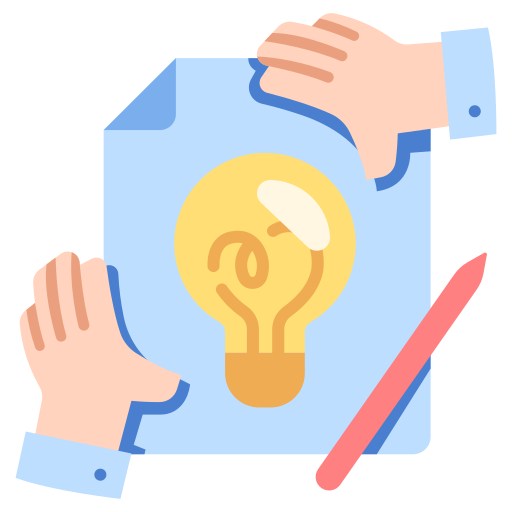
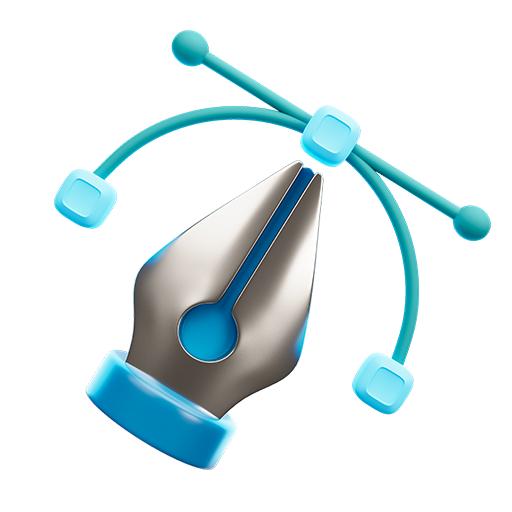
New Edits with New Nav

diff --git a/components/contact/Contact.jsx b/components/contact/Contact.jsx
@@ -5,15 +5,34 @@ function Contact() {
     <section className="contact section-padding">
       <div className="container">
         <div className="row">
-          <div className="col-lg-4 valign">
+          <div className="col-lg-12 valign">
             <div className="sec-head info-box full-width md-mb80">
-              <div className="phone fz-30 fw-600 underline main-color">
+              <h6 className="mb-15"></h6>
+              <div className="phone fz-30 fw-600 underline">
+              
                 
-                <a href="tel:[phone redacted]">[phone redacted]</a>
+                <a href="https://calendar.app.google/TUJ311uihLjpkZnF9" target='_blank'>CLICK TO BOOK A MEETING</a>
+              </div>
+              
+
+              
+            </div>
+          </div>
+          
+        </div>
+        
+        <div className="row">
+          <div className="col-lg-12 valign">
+            <div className="sec-head info-box full-width md-mb80">
+              <h6 className="mb-15">Number | WhatsApp</h6>
+              <div className="phone fz-30 fw-600 underline main-color">
+              
+                
+                <a href="tel:[phone redacted]" target='_blank'>[phone redacted]</a>, <a href="https://wa.me/message/IDWHG6YPE42MC1" target='_blank'>[phone redacted]</a>
               </div>
               <div className="morinfo mt-50 pb-30 bord-thin-bottom">
                 <h6 className="mb-15">Address</h6>
-                <p>6 Swomen Close, Rayfield, Jos, Nigeria</p>
+                <p>8 Swomen Close, Rayfield, Jos, Nigeria</p>
               </div>
               <div className="morinfo mt-30 pb-30 bord-thin-bottom">
                 <h6 className="mb-15">Email</h6>
@@ -27,7 +46,7 @@ function Contact() {
                 <a href="https://twitter.com/mustardhq" target="_blank">
                   <i className="fab fa-twitter"></i>
                 </a>
-                <a href="https://linkedin.com/company/mustardhq" target="_blank">
+                <a href="https://linkedin.com/company/mustardinnovations" target="_blank">
                   <i className="fab fa-linkedin"></i>
                 </a>
                 <a href="https://instagram.com/mustard.hq" target="_blank">
@@ -36,81 +55,7 @@ function Contact() {
               </div>
             </div>
           </div>
-          <div className="col-lg-7 offset-lg-1 valign">
-            <div className="full-width">
-              <div className="sec-head mb-50">
-                <h6 className="sub-title main-color mb-15">Let&lsquo;s Chat</h6>
-                <h3 className="text-u ls1">
-                  Send a <span className="fw-200">message</span>
-                </h3>
-              </div>
-              <form
-                id="contact-form"
-                className="form2"
-                method="post"
-                action=" "
-              >
-                <div className="messages"></div>
-
-                <div className="controls row">
-                  <div className="col-lg-6">
-                    <div className="form-group mb-30">
-                      <input
-                        id="form_name"
-                        type="text"
-                        name="name"
-                        placeholder="Name"
-                        required="required"
-                      />
-                    </div>
-                  </div>
-
-                  <div className="col-lg-6">
-                    <div className="form-group mb-30">
-                      <input
-                        id="form_email"
-                        type="email"
-                        name="email"
-                        placeholder="Email"
-                        required="required"
-                      />
-                    </div>
-                  </div>
-
-                  <div className="col-12">
-                    <div className="form-group mb-30">
-                      <input
-                        id="form_subject"
-                        type="text"
-                        name="subject"
-                        placeholder="Subject"
-                      />
-                    </div>
-                  </div>
-
-                  <div className="col-12">
-                    <div className="form-group">
-                      <textarea
-                        id="form_message"
-                        name="message"
-                        placeholder="Message"
-                        rows="4"
-                        required="required"
-                      ></textarea>
-                    </div>
-                    <div className="mt-30">
-                      <button
-                        type="submit"
-                        className="butn butn-full butn-bord radius-30"
-                      >
-                        <span className="text">Let&lsquo;s Talk</span>
-                      </button>
-                    </div>
-                  </div>
-                </div>
-              </form>
-            </div>
-          </div>
+          
         </div>
       </div>
     </section>

diff --git a/components/p-gallery/Portfolio.jsx b/components/p-gallery/Portfolio.jsx
@@ -96,6 +96,45 @@ function Portfolio() {
               </div>
             </div>
           </div>
+          {/* FOLA PR LIMITED */}
+          <div className="col-lg-8 offset-lg-2">
+            <div className="item mb-80 mt-40">
+              <div className="img">
+                <img src="/assets/imgs/works/mustardworks/fola|mustardhq.webp" alt="Fola PR Limited" />
+              </div>
+              <div className="cont d-flex align-items-end mt-30">
+                <div>
+                  <span className="p-color mb-5 sub-title">Web Design</span>
+                  <h6>Fola PR Limited</h6>
+                </div>
+                <div className="ml-auto">
+                  <a href="https://wewantfola.com" target="_blank">
+                    <span className="ti-arrow-top-right"></span>
+                  </a>
+                </div>
+              </div>
+            </div>
+          </div>
+          {/* Aisha Sulaiman */}
+          {/* <div className="col-lg-5 offset-lg-2">
+            <div className="item mb-80 mt-40">
+              <div className="img">
+                <img src="/assets/imgs/works/mustardworks/aisha|mustardhq.webp" alt="Aisha Sulaiman Achimugu" />
+              </div>
+              <div className="cont d-flex align-items-end mt-30">
+                <div>
+                  <span className="p-color mb-5 sub-title">Web Development</span>
+                  <h6>Aisha Sulaiman Achimugu</h6>
+                </div>
+                <div className="ml-auto">
+                  <a href="#" target="_blank">
+                    <span className="ti-arrow-top-right"></span>
+                  </a>
+                </div>
+              </div>
+            </div>
+          </div> */}
+
           {/* <div className="col-lg-8 offset-lg-2">
             <div className="item mt-40">
               <div className="img">

diff --git a/components/common/Navbar.jsx b/components/common/Navbar.jsx
@@ -85,26 +85,27 @@ function Navbar() {
               <div className="dropdown-menu mega-menu">
                 <div className="container">
                   <div className="row">
-                    <div className="col-lg">
+                    {/* <div className="col-lg">
                       <a className="item-img text-center" href="/">
                         <span className="img">
                           <img src="/assets/imgs/brands/mustardhq-for-home.webp" alt="" />
                         </span>
                         <span className="mt-15">Home</span>
                       </a>
-                    </div>
+                    </div> */}
                     <div className="col-lg">
                       <a
                         className="item-img text-center"
-                        href="#"
+                        href="https://www.labarintech.com"
+                        target='_blank'
                       >
                         <span className="img">
-                          <img src="/assets/imgs/brands/mustardhq-for-comingsoon.webp" alt="" />
+                          <img src="/assets/imgs/brands/labarintech-mustardhq.webp" alt="LabarinTech.com" />
                         </span>
                         <span className="mt-15">LabarinTech</span>
                       </a>
                     </div>
-                    <div className="col-lg">
+                    {/* <div className="col-lg">
                       <a
                         className="item-img text-center"
                         href="#"
@@ -114,7 +115,7 @@ function Navbar() {
                         </span>
                         <span className="mt-15">Spiritual Gift</span>
                       </a>
-                    </div>
+                    </div> */}
                     <div className="col-lg">
                       <a
                         className="item-img text-center"
@@ -211,6 +212,12 @@ function Navbar() {
               </a>
             </li>
 
+            <li className="nav-item">
+              <a className="nav-link" href="/contact">
+                <span className="rolling-text">Contact</span>
+              </a>
+            </li>
+
 
             {/* <li
               onMouseLeave={handleDropdownMouseLeave}
@@ -294,8 +301,9 @@ function Navbar() {
 
         <div className="contact-button">
           <a
-            href="/contact"
+            href="https://calendar.app.google/TUJ311uihLjpkZnF9"
             className="butn butn-sm butn-bg main-colorbg radius-5"
+            target='_blank'
           >
             <span className="text">Get Quote</span>
           </a>

diff --git a/components/home/Header.jsx b/components/home/Header.jsx
@@ -32,17 +32,13 @@ function Header() {
               <div className="d-flex align-items-end">
                 <div>
                   <h1 className="nowrap">
-                    <span className="main-color">great</span> product.
+                    <span className="main-color">great</span> products.
                   </h1>
                 </div>
                 <div>
                   <div className="text ml-30">
                     <p>
-                    Mustard is the leading software development and training institute, renowned for its innovative solutions and commitment to excellence. With a focus on empowering businesses and individuals, we blend {' '}
-                      <span className="text-light fw-600">
-                      cutting-edge technology with top-tier training
-                      </span>{' '}
-                      to drive success in the ever-evolving tech landscape.
+                    Mustard is the leading software development and training institute, renowned for its innovative solutions and commitment to excellence.
                     </p>
                   </div>
                 </div>

diff --git a/components/common/Footer.jsx b/components/common/Footer.jsx
@@ -15,7 +15,7 @@ function Footer() {
             <div className="column md-mb50">
               <h6 className="sub-title mb-30">Contact</h6>
               <h6 className="p-color fw-400">
-                6 Swomen Close, Rayfield <br /> Jos, Nigeria
+                8 Swomen Close, Rayfield <br /> Jos, Nigeria
               </h6>
               <h6 className="mt-30 mb-15">
                 <a href="mailto:[email redacted]">[email redacted]</a>
@@ -38,8 +38,11 @@ function Footer() {
                 <li className="mb-15">
                   <a href="https://labarintech.com" target="_blank">Blog</a>
                 </li>
-                <li>
+                <li className="mb-15">
                   <a href="/contact">Contact</a>
+                </li>
+                <li className="mb-15">
+                  <a href="https://calendar.app.google/TUJ311uihLjpkZnF9">Get Quote</a>
                 </li>
               </ul>
             </div>

diff --git a/components/about/Intro.jsx b/components/about/Intro.jsx
@@ -32,9 +32,9 @@ function Intro() {
               <p>
               Our commitment is to the seamless integration of innovative thinking and meticulous execution, ensuring every solution we deliver embodies both excellence and delivers tangible outcomes.
               </p>
-              <a href="/contact" className="underline main-color mt-40">
+              <a href="https://calendar.app.google/TUJ311uihLjpkZnF9" className="underline main-color mt-40" target='_blank'>
                 <span className="text">
-                  Explore More <i className="ti-arrow-top-right"></i>
+                  Hear From Us <i className="ti-arrow-top-right"></i>
                 </span>
               </a>
             </div>

diff --git a/components/about/Numbers.jsx b/components/about/Numbers.jsx
@@ -8,7 +8,7 @@ function Numbers() {
           <div className="col-lg-4 col-md-6">
             <div className="item text-center md-mb50">
               <div className="o-hidden">
-                <h3 className="stroke">100%</h3>
+                <h3 className="stroke">97%</h3>
               </div>
               <h6 className="p-color sub-title">Clients Satisfaction</h6>
             </div>
@@ -16,7 +16,7 @@ function Numbers() {
           <div className="col-lg-4 col-md-6">
             <div className="item text-center md-mb50">
               <div className="o-hidden">
-                <h3 className="stroke">57</h3>
+                <h3 className="stroke">137</h3>
               </div>
               <h6 className="p-color sub-title">Projects Completed</h6>
             </div>

diff --git a/.next/server/server-reference-manifest.js b/.next/server/server-reference-manifest.js
@@ -1,1 +1,1 @@
-self.__RSC_SERVER_MANIFEST="{\n  \"node\": {},\n  \"edge\": {},\n  \"encryptionKey\": \"R87vUL67c9HwKY35fQDTyqNbqmA+o2+nhcZTBod05Ps=\"\n}"
+self.__RSC_SERVER_MANIFEST="{\n  \"node\": {},\n  \"edge\": {},\n  \"encryptionKey\": \"T+JxiFOYBgqtKGegKiRV9Pz5sTJaAaJkUDt+hl5FVs8=\"\n}"

diff --git a/.next/server/webpack-runtime.js b/.next/server/webpack-runtime.js
@@ -125,7 +125,7 @@
 /******/ 	
 /******/ 	/* webpack/runtime/getFullHash */
 /******/ 	(() => {
-/******/ 		__webpack_require__.h = () => ("8ab1e7324233750a")
+/******/ 		__webpack_require__.h = () => ("e4196269a5402e22")
 /******/ 	})();
 /******/ 	
 /******/ 	/* webpack/runtime/hasOwnProperty shorthand */

diff --git a/.next/static/chunks/webpack.js b/.next/static/chunks/webpack.js
@@ -192,7 +192,7 @@
 /******/ 	
 /******/ 	/* webpack/runtime/getFullHash */
 /******/ 	!function() {
-/******/ 		__webpack_require__.h = function() { return "5a90eaf8e0ed2871"; }
+/******/ 		__webpack_require__.h = function() { return "428114a295a3f5e8"; }
 /******/ 	}();
 /******/ 	
 /******/ 	/* webpack/runtime/global */

diff --git a/components/about/Header.jsx b/components/about/Header.jsx
@@ -29,7 +29,7 @@ function Header() {
           <div className="col-12">
             <div className="text-center">
               <h1 className="text-u ls1 fz-80">
-                About <span className="fw-200">Mustard</span>
+                About  <span className="fw-200">Mustard</span>HQ
               </h1>
             </div>
           </div>

diff --git a/components/common/Marq2.jsx b/components/common/Marq2.jsx
@@ -34,7 +34,7 @@ function Marq2() {
             ))}
           </div>
 
-          <a href="/contact" className="overlay-link"></a>
+          <a href="https://calendar.app.google/TUJ311uihLjpkZnF9" className="overlay-link" target="_blank"></a>
         </div>
       </div>
       <div className="main-marq bord-item">